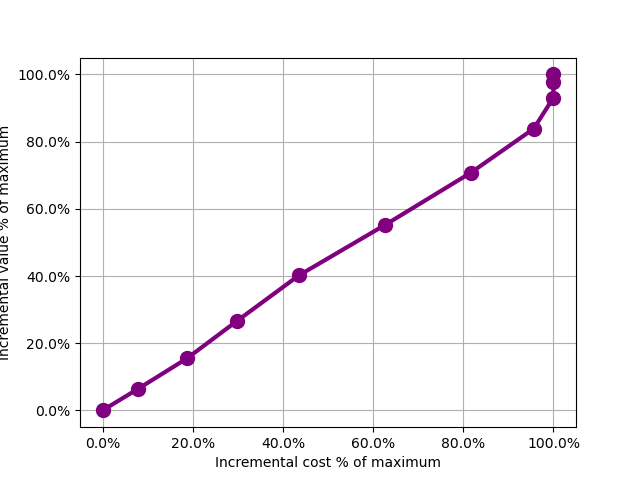
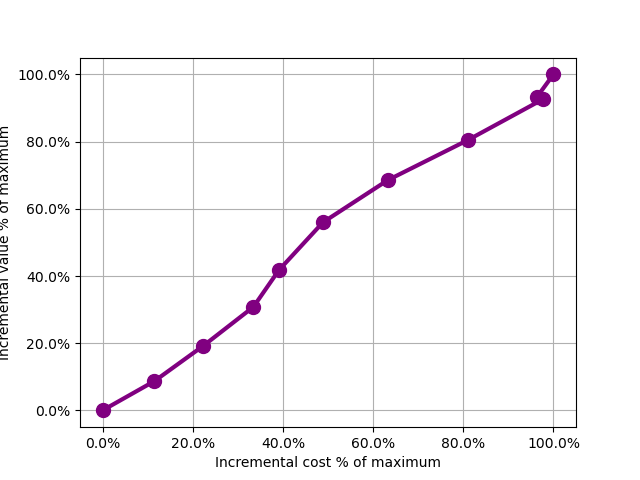
without dropout, without quantile, refine objective function

diff --git a/Model/ctpm.py b/Model/ctpm.py
@@ -99,25 +99,29 @@ class CTPM(nn.Module):
 
         h_tre_rnkscore, h_unt_rnkscore = s_tre.clone(), s_unt.clone()
 
-        # Top-k sorting with differentiable approximation
-        top_k_tre = int(torch.ceil(torch.tensor(size_tre * self.p_quantile)).item())
-        top_k_unt = int(torch.ceil(torch.tensor(size_unt * self.p_quantile)).item())
+        # # Top-k sorting with differentiable approximation
+        # top_k_tre = int(torch.ceil(torch.tensor(size_tre * self.p_quantile)).item())
+        # top_k_unt = int(torch.ceil(torch.tensor(size_unt * self.p_quantile)).item())
 
-        h_tre_sorted, _ = torch.sort(s_tre, dim=0, descending=True)
-        h_unt_sorted, _ = torch.sort(s_unt, dim=0, descending=True)
+        # h_tre_sorted, _ = torch.sort(s_tre, dim=0, descending=True)
+        # h_unt_sorted, _ = torch.sort(s_unt, dim=0, descending=True)
 
-        intercept_tre = h_tre_sorted[top_k_tre - 1].detach()
-        intercept_unt = h_unt_sorted[top_k_unt - 1].detach()
+        # intercept_tre = h_tre_sorted[top_k_tre - 1].detach()
+        # intercept_unt = h_unt_sorted[top_k_unt - 1].detach()
 
-        h_tre = torch.sigmoid(self.temp * (s_tre - intercept_tre))
-        h_unt = torch.sigmoid(self.temp * (s_unt - intercept_unt))
+        # h_tre = torch.sigmoid(self.temp * (s_tre - intercept_tre))
+        # h_unt = torch.sigmoid(self.temp * (s_unt - intercept_unt))
 
-        h_tre = F.dropout(h_tre, self.dropout_rate)
-        h_unt = F.dropout(h_unt, self.dropout_rate)
+        # h_tre = F.dropout(h_tre, self.dropout_rate)
+        # h_unt = F.dropout(h_unt, self.dropout_rate)
 
-        # Softmax weights
-        s_tre = F.softmax(h_tre, dim=0)
-        s_unt = F.softmax(h_unt, dim=0)
+        # # Softmax weights
+        # s_tre = F.softmax(h_tre, dim=0)
+        # s_unt = F.softmax(h_unt, dim=0)
+
+        s_tre = F.softmax(s_tre, dim=0)
+        s_unt = F.softmax(s_unt, dim=0)
+
 
         # Objective
         dc_tre = torch.sum(s_tre.float() * c_tre.float())
@@ -133,8 +137,8 @@ class CTPM(nn.Module):
         # dist_diff = F.leaky_relu(dd_tre - dd_unt)
 
         # Objective
-        # obj = cost_diff / (order_diff + 1e-9) + d2dlamb * dist_diff
-        obj = cost_diff / (order_diff + 1e-9)
+        # obj = order_diff / (cost_diff + 1e-9) + d2dlamb * dist_diff
+        obj = order_diff / (cost_diff + 1e-9)
 
         return obj, dc_tre - dc_unt, do_tre - do_unt, h_tre_rnkscore, h_unt_rnkscore
     

diff --git a/run_script.py b/run_script.py
@@ -372,7 +372,7 @@ def main():
     # print("rlearner mlp aucc: ", aucc_mlp)
 
     # ----- Continuous Treatment Model ----- #
-    ctpm_model = CTPM(D_dim=input_dim, num_hidden=number_of_hidden, temp=initial_temperature, p_quantile=p_quantile, dropout_rate=0.1)
+    ctpm_model = CTPM(D_dim=input_dim, num_hidden=number_of_hidden, temp=initial_temperature, p_quantile=p_quantile, dropout_rate=0)
     # Training
     ctpm_epochs = 100
     save_path_ctpm="model_ctpm.pth"
